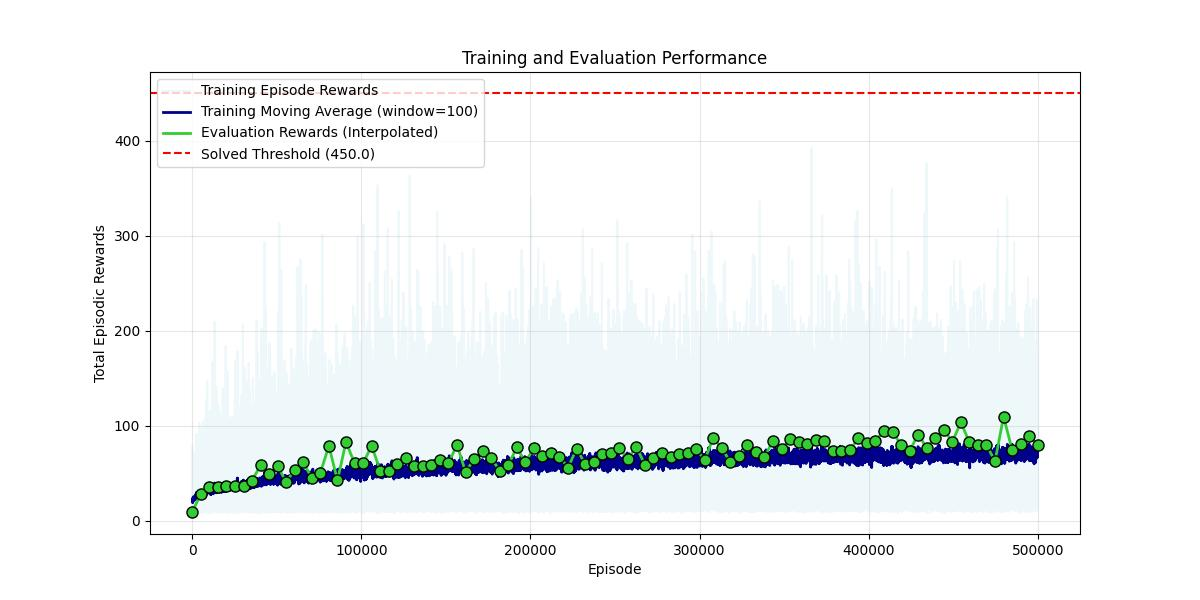
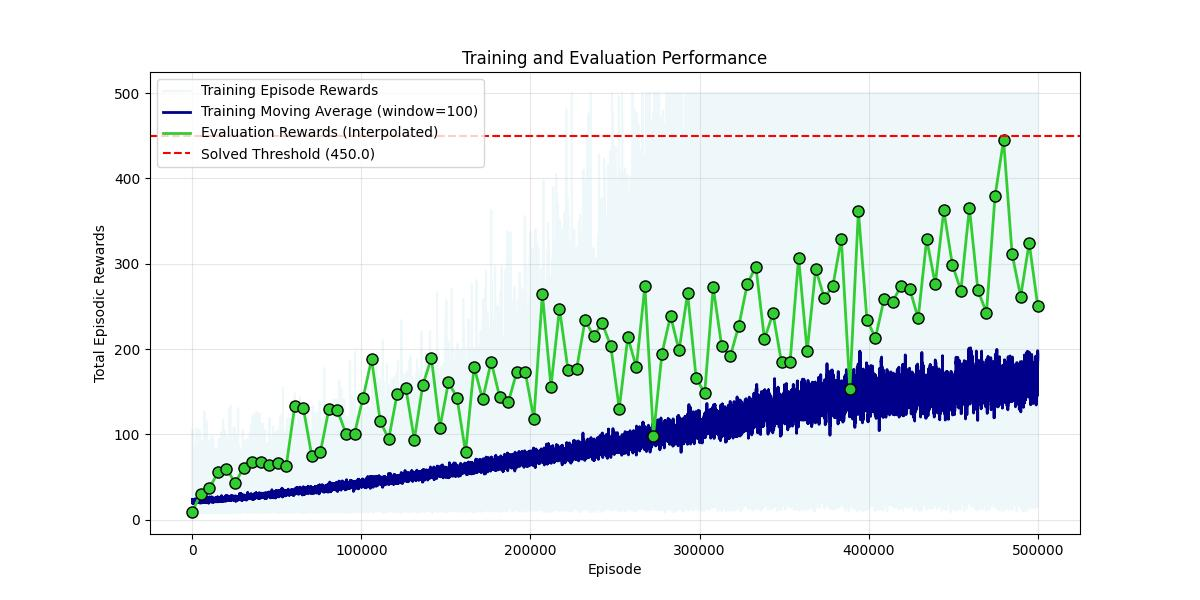
Updating results

diff --git a/Lesson-2/MonteCarlo/config/MC_CONFIG.py b/Lesson-2/MonteCarlo/config/MC_CONFIG.py
@@ -1,13 +1,13 @@
 MC_CONFIG = {
     "gamma": 0.99,
     "alpha": 0.01,
-    "num_episodes": 5e5,
+    "num_episodes": 1e6,
     "start_epsilon": 1.0,
     # Monte-Carlo needs long exploration
     # to fight variance
     "min_epsilon": 0.1,
     # Number of episodes to decay from start_epsilon to min_epsilon
-    "decay_episodes": 4e5,
+    "decay_episodes": 6e5,
     "num_bins": 200,
     "evaluation_period": 5000,
     "evaluation_episodes": 10,
